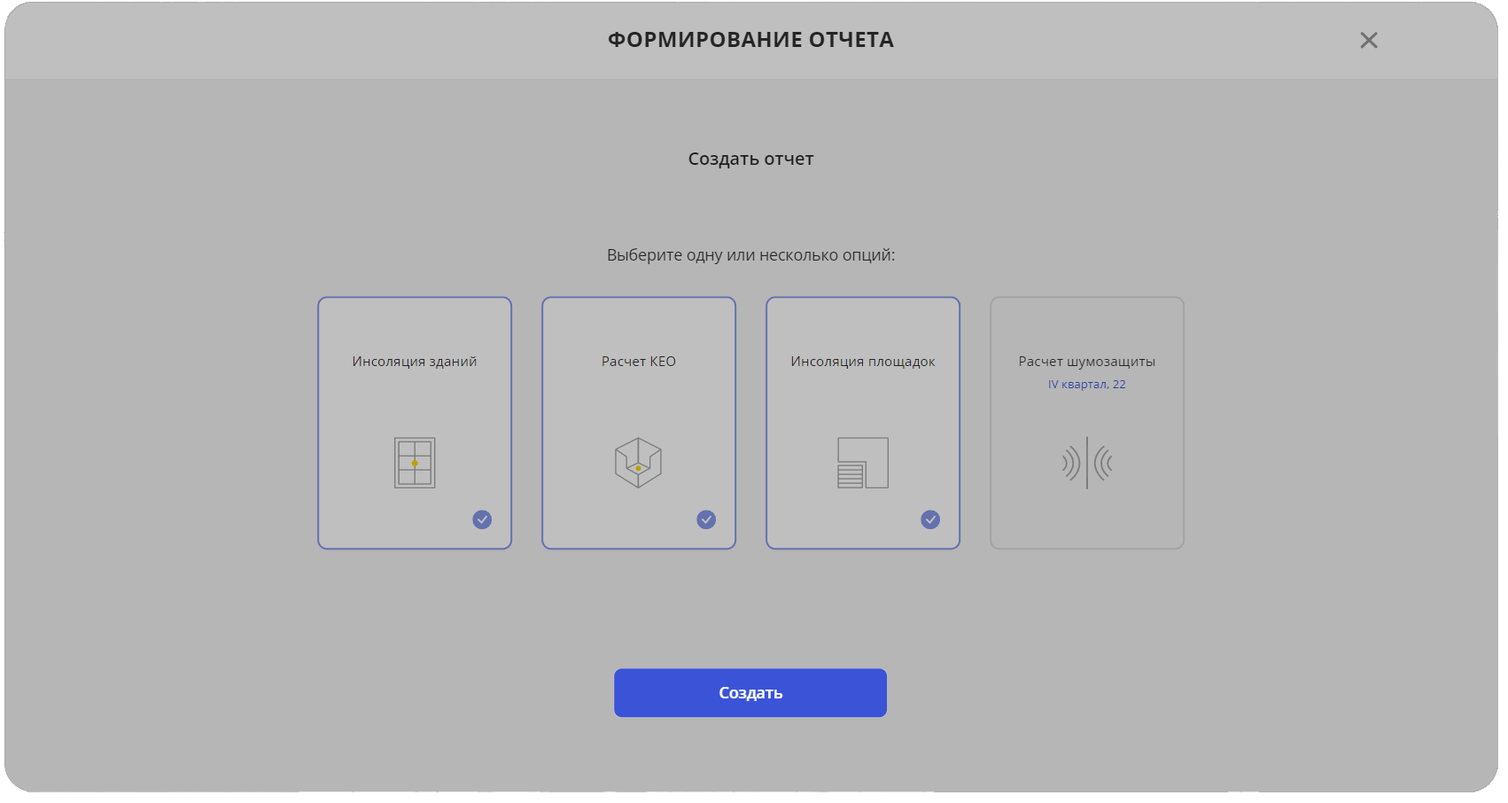
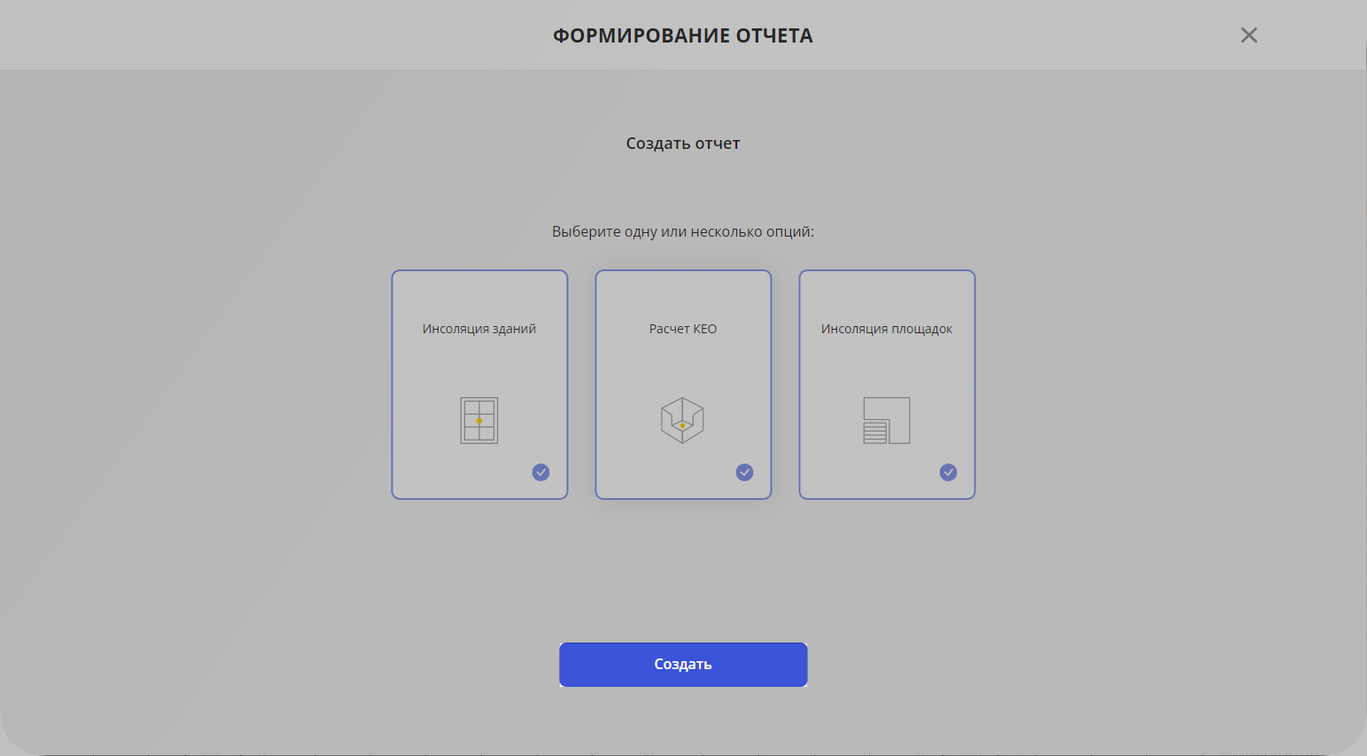
feat(): правки в документации (#72)
правки в документации

diff --git a/src/components/Image.js b/src/components/Image.js
@@ -4,7 +4,7 @@ export default function Image({width, image, title}){
     return(
     <div style={{ display: "flex", flexDirection: "column", alignItems: "center", marginBottom: "16px" }}>
         <img src={image} alt={title} width={width} style={{ textAlign: "center" }} />
-        <i>{title}</i>
+        {title && <i>{title}</i>}
     </div>
     );
 }

diff --git a/docs/2. Руководство пользователя/5. Расчёт КЕО/1.Установка параметров для расчета КЕО.md b/docs/2. Руководство пользователя/5. Расчёт КЕО/1.Установка параметров для расчета КЕО.md
@@ -47,6 +47,8 @@ import newpomnameImage from "@site/docs/resources/frame/newpomname.png";
 import someImage from "@site/docs/resources/frame/some.png";
 import quantityImage from "@site/docs/resources/frame/quantity.png";
 import updatedicImage from "@site/docs/resources/frame/updatedic.png";
+import glaImage from "@site/docs/resources/keo/gla.png";
+import gla2Image from "@site/docs/resources/keo/gla2.png";
 
 ***
 Перед расчетом проверьте корректность *[Общих настроек проекта](/docs/manual/altecinsolations/project-settings)*. 
@@ -82,6 +84,9 @@ import updatedicImage from "@site/docs/resources/frame/updatedic.png";
 
 В строке, выбираем материал фрагмента фасада, соответствующий материалу затеняющего фасада здания, коэффициент отражения материала будет указан автоматически. Также пользователю нужно ввести весовой коэффициент - площадь данного фрагмента (в м. кв., рис. 62).
 
+База материалов заимствована из нормативной документации (СП 52, СП 367). 
+Аббревиатура расшифровывается так: СП52тГ2п1мин - СП52, таблица Г2, пункт 1, минимальное значение.
+
 
 <image image={yImage} width="100%" title="Рисунок 62 - Создание и настройка средневзвешенного коэффициента отражения фасада "/>
 
@@ -114,6 +119,11 @@ import updatedicImage from "@site/docs/resources/frame/updatedic.png";
 
 <image image={aImage} width="80%" title="Рисунок 66 - Выбор коэффициентов пропускания света"/>
 
+
+Коэффициенты τ настраиваются для всех витражей в проекте одновременно.  
+
+<image image={glaImage} width="50%" title="Рисунок 66.1 - Выбор коэффициентов пропускания света для витражей"/>
+
 ### Коэффициент τ1
 
 τ1 - остекление. Пользователь выбирает тип остекления (формула окна), для каждого типа окна доступен один или несколько вариантов коэффициента, нужно выбрать его самостоятельно.
@@ -136,20 +146,28 @@ import updatedicImage from "@site/docs/resources/frame/updatedic.png";
 
 ### Коэффициент τ2
 
-τ2 - переплет. Необходимо создать тип переплета для расчета коэффициента. В строке выбора переплета пользователь нажимает вариант на *"Редактирование"* . Открывается окно редактирования, нажимаем *“Создать тип окна”*. Открывается калькулятор расчета коэффициента. Вбиваются габаритные значения в необходимую ячейку, указывается название (рис. 70).
+#### Для окон
 
+τ2 - переплет. Необходимо создать тип переплета для расчета коэффициента. В строке выбора переплета пользователь нажимает вариант на *"Редактирование"* . Открывается окно редактирования, нажимаем *“Создать тип окна”*. Открывается калькулятор расчета коэффициента. Вбиваются габаритные значения в необходимую ячейку, указывается название (рис. 70).
+Габариты окон указываются в метрах.
+
+<image image={sImage} width="100%" title="Рисунок 70 - Окно создания коэффициента τ2 "/>
+<image image={dImage} width="100%" title="Рисунок 70.1 - Калькулятор создания коэффициента τ2"/>
+
+#### Для витражей
+
+τ2 - при выгрузке модели  сервис  автоматически определяет габариты витража, площадь импостов, поэтому необходимо задать только коэффициент отражения переплёта p. Его значение вводится вручную в зависимости от материала.
+
+<image image={gla2Image} width="50%" title="Рисунок 71 - Коэффициент p для витража "/>
 
 В правой нижней части окна можно сохранить или отменить создание.
 
-<image image={sImage} width="100%" title="Рисунок 70 - Окно создания коэффициента τ2 "/>
-<image image={dImage} width="100%" title="Рисунок 71 - Калькулятор создания коэффициента τ2"/>
-
 Задаем остальные коэффициенты (рис. 71). 
-### Коэффициенты τ2, τ3, τ4
+### Коэффициенты τ3, τ4, τ5
 
-τ3- несущие конструкции. При боковом освещении t3=1;  
-τ4- затеняющие конструкции. Пользователь также указывает, какие конструкции соответствуют выбранному типу окна. По умолчанию коэффициент равен 1;  
-τ5- наличие или отсутствие защитной сетки. По умолчанию коэффициент равен 1.  
+τ3 - несущие конструкции. При боковом освещении t3=1;  
+τ4 - затеняющие конструкции. Пользователь также указывает, какие конструкции соответствуют выбранному типу окна. По умолчанию коэффициент равен 1;  
+τ5 - наличие или отсутствие защитной сетки. По умолчанию коэффициент равен 1.  
 
 Пользователь проделывает эти действия для каждого типа окна, а далее для всех зданий. Мультиселект позволяет задавать τ сразу для нескольких типов окон. На рисунке выделено 3 типа окна. Они подсвечиваются синим цветом.
 

diff --git a/docs/2. Руководство пользователя/2. Экспортёр. Установка. Принцип работы/2. Подготовка модели. Требования к ней.md b/docs/2. Руководство пользователя/2. Экспортёр. Установка. Принцип работы/2. Подготовка модели. Требования к ней.md
@@ -44,8 +44,7 @@ __*При ручной настройке обязательными к эксп
 - *Крыши*  
 - *Несущие колонны*  
 - *Обобщенные модели*  
-- *Окна*  
-- *Ограждения*  
+- *Окна*   
 - *Панели витража*  
 - *Перекрытия*  
 - *Потолки*  
@@ -76,6 +75,15 @@ __*При ручной настройке обязательными к эксп
 <image image={kiImage} width="60%" title="Рисунок 7 - Подкатегория: Каркас/Импост"/>
 
 ### Требования к витражам:
-Каждый витраж должен относиться к отдельному светопроему. На данный момент не обрабатываются случаи, когда витраж растянут на несколько помещений, этажей.
+Расчёт витражей возможен при наличии заданных помещений в модели Revit. Рассчитываемые витражи могут быть, как растянуты на одно помещение, так и растянуты на несколько помещений/этажей.
+
+Высота заданного в *Revit*  помещения должна соответствовать геометрической высоте помещения без учёта перекрытия.
+При несоблюдении - витраж не определится в сервисе, как доступный к расчету.
+
+
+### Базовая точка:
+При работе с сервисом, необходимо проверить модель на настройку *Базовой точки* модели. 
+Чтобы её проверить в *Revit*, откройте вкладку _«Вид»_ панель _«Графика»_ («Видимость/Графика»). На вкладке _«Категории модели»_ диалогового окна _«Переопределения видимости/графики»_ с помощью прокрутки найдите категорию «Стройплощадка» и разверните ее. Чтобы отобразить базовую точку проекта, установите флажок «Базовая точка проекта».
+
 
 После создания 3D вида, можно приступать к экспорту.

diff --git a/docs/2. Руководство пользователя/3. Сервис Altec Insolations/2.  Интерфейс сервиса.md b/docs/2. Руководство пользователя/3. Сервис Altec Insolations/2.  Интерфейс сервиса.md
@@ -5,6 +5,7 @@ slug: /manual/altecinsolations/interface
 import linImage from "@site/docs/resources/lk/lin.png";
 import kubImage from "@site/docs/resources/kub.png";
 import modelImage from "@site/docs/resources/frame/model.png";
+import generalSettingsImage from "./resources/generalSettings.png";
 
 
 
@@ -14,6 +15,7 @@ import modelImage from "@site/docs/resources/frame/model.png";
 
 После загрузки сцены вы увидите интерфейс, который содержит:
 
+<image image={generalSettingsImage} width="30%" title="Рисунок 26.1 - Общие настройки (в верхней части экрана)"/>
 
 *[1] Модель в сцене*  
 *[2] Панель инструментов (в левой части экрана)*  
@@ -24,6 +26,15 @@ import modelImage from "@site/docs/resources/frame/model.png";
 *[7] Формирование отчета (в верхней части экрана)*  
 
 В сцене - центральной части экрана расположена только что загруженная модель [1]. Она отображается внутри розы ветров - в круговой линейке с обозначением сторон света (красная - север, синяя - юг).
+
+
+
+В общих настройках [5], при переходе в *Настройки по умолчанию*, откроется окно, в котором можно задать *Тип зданий по умолчанию* и *Тип комнат по умолчанию*.(Актуально при не настроенной квартирографии, чтобы корректно рассчитались витражи в модели)
+
+*Тип комнат по умолчанию*:
+Балкон или лоджия - помещение при витраже назначается балконом/лоджией, витраж становится не интерактивным (нельзя поставить на расчёт)
+Не балкон или лоджия - помещение при витраже назначается иной категорией, витраж. 
+Неизвестный тип - автоматическое присвоение той или иной категории по названию помещения.
 
 **Панель инструментов**
 

diff --git a/docs/2. Руководство пользователя/3. Сервис Altec Insolations/1. Главная страница.md b/docs/2. Руководство пользователя/3. Сервис Altec Insolations/1. Главная страница.md
@@ -13,7 +13,7 @@ import newpImage from "@site/docs/resources/frame/newp.png";
 
 <image image={glImage} width="100%" title="Рисунок 23 - Главная Insolations."/>
 
-*[1] - панель управления (файлы и папки, общий доступ, настройки пользователя, помощь);*  
+*[1] - панель управления (файлы , общий доступ, настройки пользователя, помощь);*  
 *[2] - ранее выгруженные модели;*  
 *[3] - поиск проектов по названию;*  
 *[4] - панель управления проектами (всплывает при нажатии на проект);"*  
@@ -27,13 +27,7 @@ import newpImage from "@site/docs/resources/frame/newp.png";
 
 Для навигации можно воспользоваться поиском по названию, выбрать удобный режим отображения: *список или таблица* [6].
 
-Вы можете создать папку, используя кнопку *“Добавить папку”* (рис. 24).  
-
-<image image={newpImage} width="100%" title="Рисунок 24 - Кнопка добавить папку"/>
-
-Открывается новое окно - создание папки (рис. 25). После введения названия папку можно создать или отменить ее создание.
-
-<image image={rvImage14} width="55%" title="Рисунок 25 - Окно создания папки"/>
+ 
 
 На значке модели, пользователю показывается превью модели и её вес. 
 

diff --git a/docs/2. Руководство пользователя/2. Экспортёр. Установка. Принцип работы/1. Установка плагина RevitExport.md b/docs/2. Руководство пользователя/2. Экспортёр. Установка. Принцип работы/1. Установка плагина RevitExport.md
@@ -11,6 +11,6 @@ import REImage from "@site/docs/resources/registration/RE.png";
 <image image={REImage} width="35%" title="Рисунок 4 - Плагин RevitExport"/>
 
 
-После окончания загрузки в браузере необходимо запустить установщик и указать, с какими версиями Revit будет работать плагин *“Revit Export”* (доступные версии 2017 - 2023). В случае, если плагин уже установлен, пользователь может обновить его до последней версии, или удалить.
+После окончания загрузки в браузере необходимо запустить установщик и указать, с какими версиями Revit будет работать плагин *“Revit Export”* (доступные версии 2017 - 2024). В случае, если плагин уже установлен, пользователь может обновить его до последней версии, или удалить.
 
 Если никаких ошибок не возникло, пользователь получает уведомление об окончании загрузки, а также в программе Revit появляется новая вкладка *AltecSystems Exporter*. 

diff --git a/docs/2. Руководство пользователя/7. Отчет/1. Формирование отчета.md b/docs/2. Руководство пользователя/7. Отчет/1. Формирование отчета.md
@@ -116,14 +116,13 @@ import prezImage from "@site/docs/resources/otchet/prez.png";
 
 ### 7 ШАГ *Приложение*
 
-**Добавить сечение, план БТИ.**
+**Добавить сечение.**
 
-Нажимаем кнопку *Добавить приложение*.
+Нажимаем кнопку *Добавить*.
 
 В автоматически сформированном списке объектов из файла RVT выбираем здание. Далее выбираем этаж, либо группу этажей, для которых необходимо сгенерировать сечение. 
 
-Планы БТИ можно выгрузить, с помощью кнопки *“План БТИ”*.
-Нажимаем *“Добавить сечение”* и нажимаем зеленую галочку для сохранения (рис. 111).
+Нажимаем зеленую галочку для сохранения (рис. 111).
 
 <image image={step5Image} width="100%" title="Рисунок 111 - 7 шаг создания отчета"/>
 <image image={planImage} width="100%" title="Рисунок 112 - 7 шаг создания отчета"/>

diff --git a/docs/3. Методические указания/3. Расчет КЕО.md b/docs/3. Методические указания/3. Расчет КЕО.md
@@ -14,6 +14,8 @@ import fKEOImage from "@site/docs/resources/frame/fKEO.png";
 - *Изменение № 2 к СП 52.13330.2016 от 28 декабря 2021г.*  
 - **СП 367.1325800.2017 «Здания жилые и общественные. Правила проектирования естественного и совмещенного освещения»**  
 - *Изменение № 1 к СП 367.1325800.2017 от 14 декабря 2020г.*
+- *Изменение № 2 к СП 367.1325800.2017 от 20 декабря 2022г.*
+- **СанПиН 1.2.3685-21 «Гигиенические нормативы и требования к обеспечению безопасности и(или) безвредности для человека факторов среды обитания»**
 
 
 Положение расчетных точек КЕО определяется в соответствии с СП 52.13330.2016. 

diff --git a/docs/1. Добро пожаловать.md b/docs/1. Добро пожаловать.md
@@ -18,7 +18,7 @@ slug: /
 
 ## О сервисе
 
- *__Altec Insolations__* - браузерный онлайн-сервис для расчета инсоляции и КЕО жилых и общественных зданий, а также автоматического формирования отчета (в разработке находится функционал по расчету шумозащиты). 
+ *__Altec Insolations__* - браузерный онлайн-сервис для расчета инсоляции и КЕО жилых и общественных зданий, а также автоматического формирования отчетаы. 
 
 В состав программного комплекса входит __*сервис для расчета инсоляции и КЕО и плагин “Экспортер”*__ для экспорта модели из Revit.
 

diff --git a/docs/3. Методические указания/1. Возможности комплекса.md b/docs/3. Методические указания/1. Возможности комплекса.md
@@ -2,6 +2,7 @@
 slug: /guidelines/possibilities
 ---
 
+import schemeImage from "@site/docs/resources/ch.png";
 
 **Программа Altec Insolations предоставляет возможность выполнить следующие виды расчетов:**
 - *расчёт продолжительности инсоляции жилых и общественных зданий*;
@@ -11,7 +12,7 @@ slug: /guidelines/possibilities
 ## Общая схема функционирования ПК Altec Insolations
 
 
-![](../resources/ch.png)
+<image image={schemeImage} width="80%"/>
 
 
 Программа Altec Insolations предназначена для расчета, исследования инсоляции помещений жилых и общественных зданий и территорий, определения КЕО.

diff --git a/docs/3. Методические указания/4. Расчет площадок.md b/docs/3. Методические указания/4. Расчет площадок.md
@@ -23,6 +23,8 @@ slug: /guidelines/territories-insolation
 - Меньше шаг – больше точность и меньше скорость; 
 - Больше шаг – меньше точность и больше скорость.
 
+Пользователь может задавать отступ от края площадки. 
+
 Для каждой расчетной точки, составляющей расчетную площадку, определяется продолжительность инсоляции. Инсоляция для расчетной точки считается выполненной, если выполняется одно из условий: 
 
 - непрерывная продолжительность инсоляции составляет не менее 2,5 часов; 
